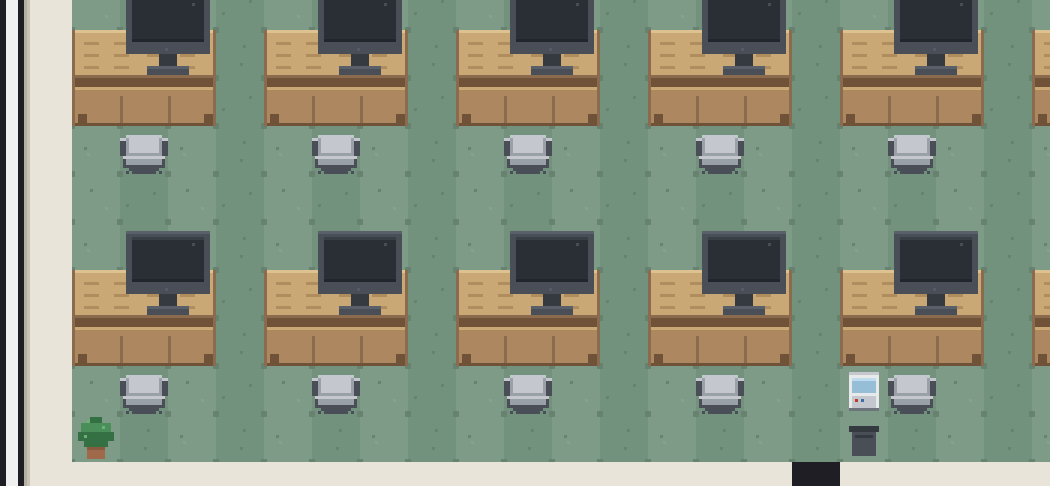
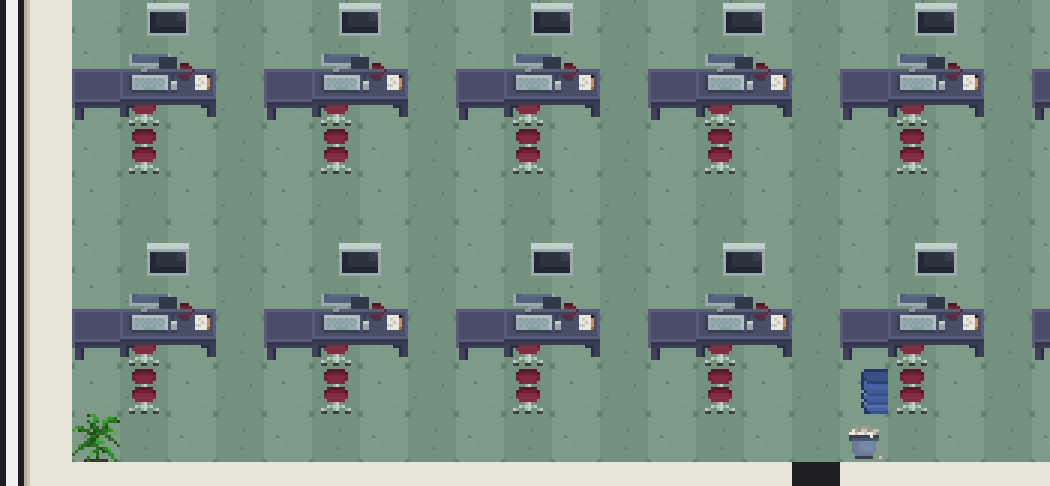
zero-resize policy: antea_tile() now centre-crops/pads at native scale — 32x32 sprites drop their most readable 16x16 window instead of downscaling; desk monitor crop pasted native (28x22 upscale removed) so every Antea pixel is the artist's own

diff --git a/scripts/gen_tilesets.py b/scripts/gen_tilesets.py
@@ -766,13 +766,22 @@ def antea(name):
     return _ANTEA_CACHE[name]
 
 def antea_tile(name, box=None, size=(T, T)):
-    """Cut a 16x16 tile from an Antea sprite: optional crop box, then a
-    NEAREST resize to the target size (integer up/downscales stay crisp)."""
+    """Cut a tile from an Antea sprite at NATIVE scale — never resized.
+    `box` picks the source region; if the result is larger than `size` the
+    centred window is taken, if smaller it is pasted centred on a
+    transparent canvas."""
     im = antea(name)
     if box is not None:
         im = im.crop(box)
+    tw, th = size
+    if im.width > tw or im.height > th:
+        x0 = max(0, (im.width - tw) // 2)
+        y0 = max(0, (im.height - th) // 2)
+        im = im.crop((x0, y0, x0 + tw, y0 + th))
     if im.size != tuple(size):
-        im = im.resize(size, Image.NEAREST)
+        out = new_tile()
+        out.paste(im, ((tw - im.width) // 2, (th - im.height) // 2), im)
+        im = out
     return im
 
 # Antea palette samples (dark navy desk line, maroon vending line)
@@ -826,9 +835,8 @@ def monitor_pair_antea(on):
             r, g, b, a = p[x, y]
             if a and (r, g, b) in screen:
                 p[x, y] = (*ramp[screen[(r, g, b)]], a)
-    mon = src.resize((28, 22), Image.NEAREST)
     s = Image.new("RGBA", (32, 32), (0, 0, 0, 0))
-    s.paste(mon, (2, 3), mon)
+    s.paste(src, ((32 - src.width) // 2, (26 - src.height) // 2), src)
     d = ImageDraw.Draw(s)
     rect(d, 13, 25, 6, 4, A_BAND)          # stand stem
     rect(d, 9, 29, 14, 2, A_LEG)           # base
@@ -1031,11 +1039,12 @@ def build_office():
     paste_tile(img, 266, F, antea_tile("Small-Table.png"))
     paste_tile(img, 276, F, antea_tile("Small-Table.png"))
 
-    # appliances: copier, water dispenser, tall cabinet, printer stand
-    paste_tile(img, 269, F, antea_tile("Big-Office-Printer.png"))
-    paste_tile(img, 281, F, antea_tile("Water-Dispenser.png"))
-    paste_tile(img, 282, F, antea_tile("Filing-Cabinet-Tall.png"))
-    paste_tile(img, 285, F, antea_tile("Printer-Furniture.png"))
+    # appliances: copier, water dispenser, tall cabinet, printer stand —
+    # 32x32 sources are cropped, not resized; box = most readable window
+    paste_tile(img, 269, F, antea_tile("Big-Office-Printer.png", (7, 4, 23, 20)))
+    paste_tile(img, 281, F, antea_tile("Water-Dispenser.png", (3, 1, 19, 17)))
+    paste_tile(img, 282, F, antea_tile("Filing-Cabinet-Tall.png", (8, 8, 24, 24)))
+    paste_tile(img, 285, F, antea_tile("Printer-Furniture.png", (8, 8, 24, 24)))
 
     # worker chairs + bins + desk smalls
     ch = antea_tile("Chair.png")
